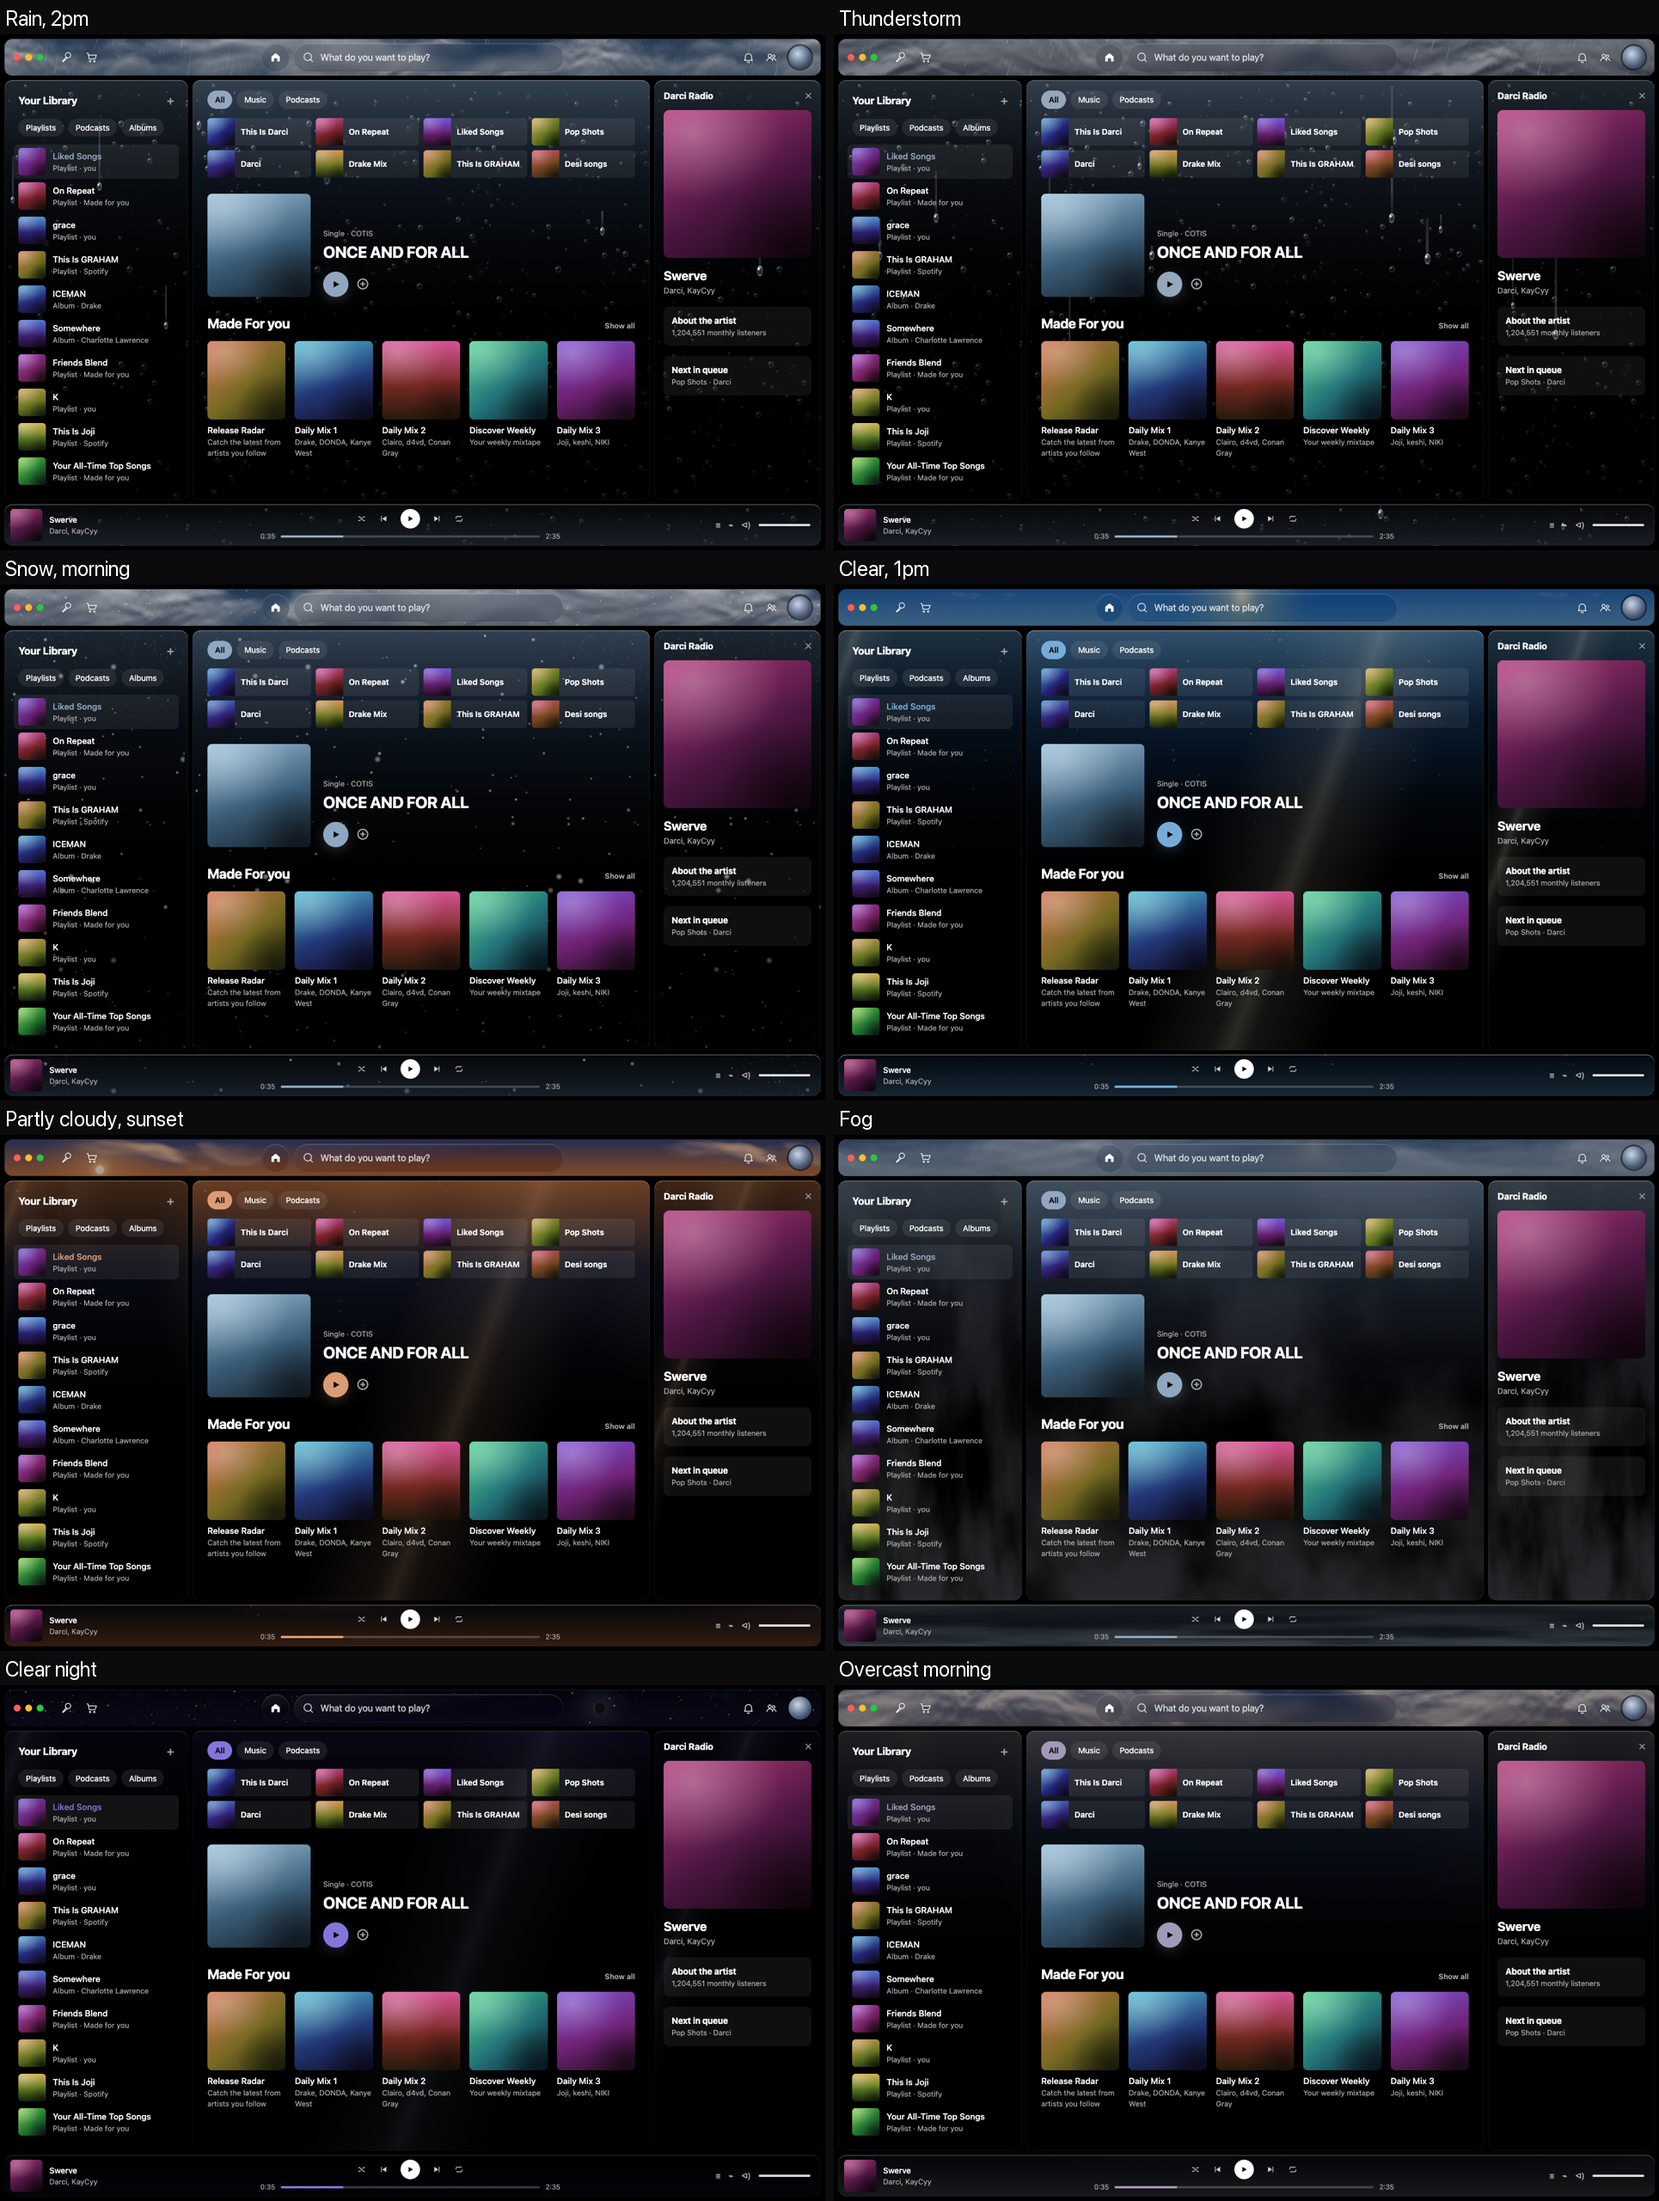
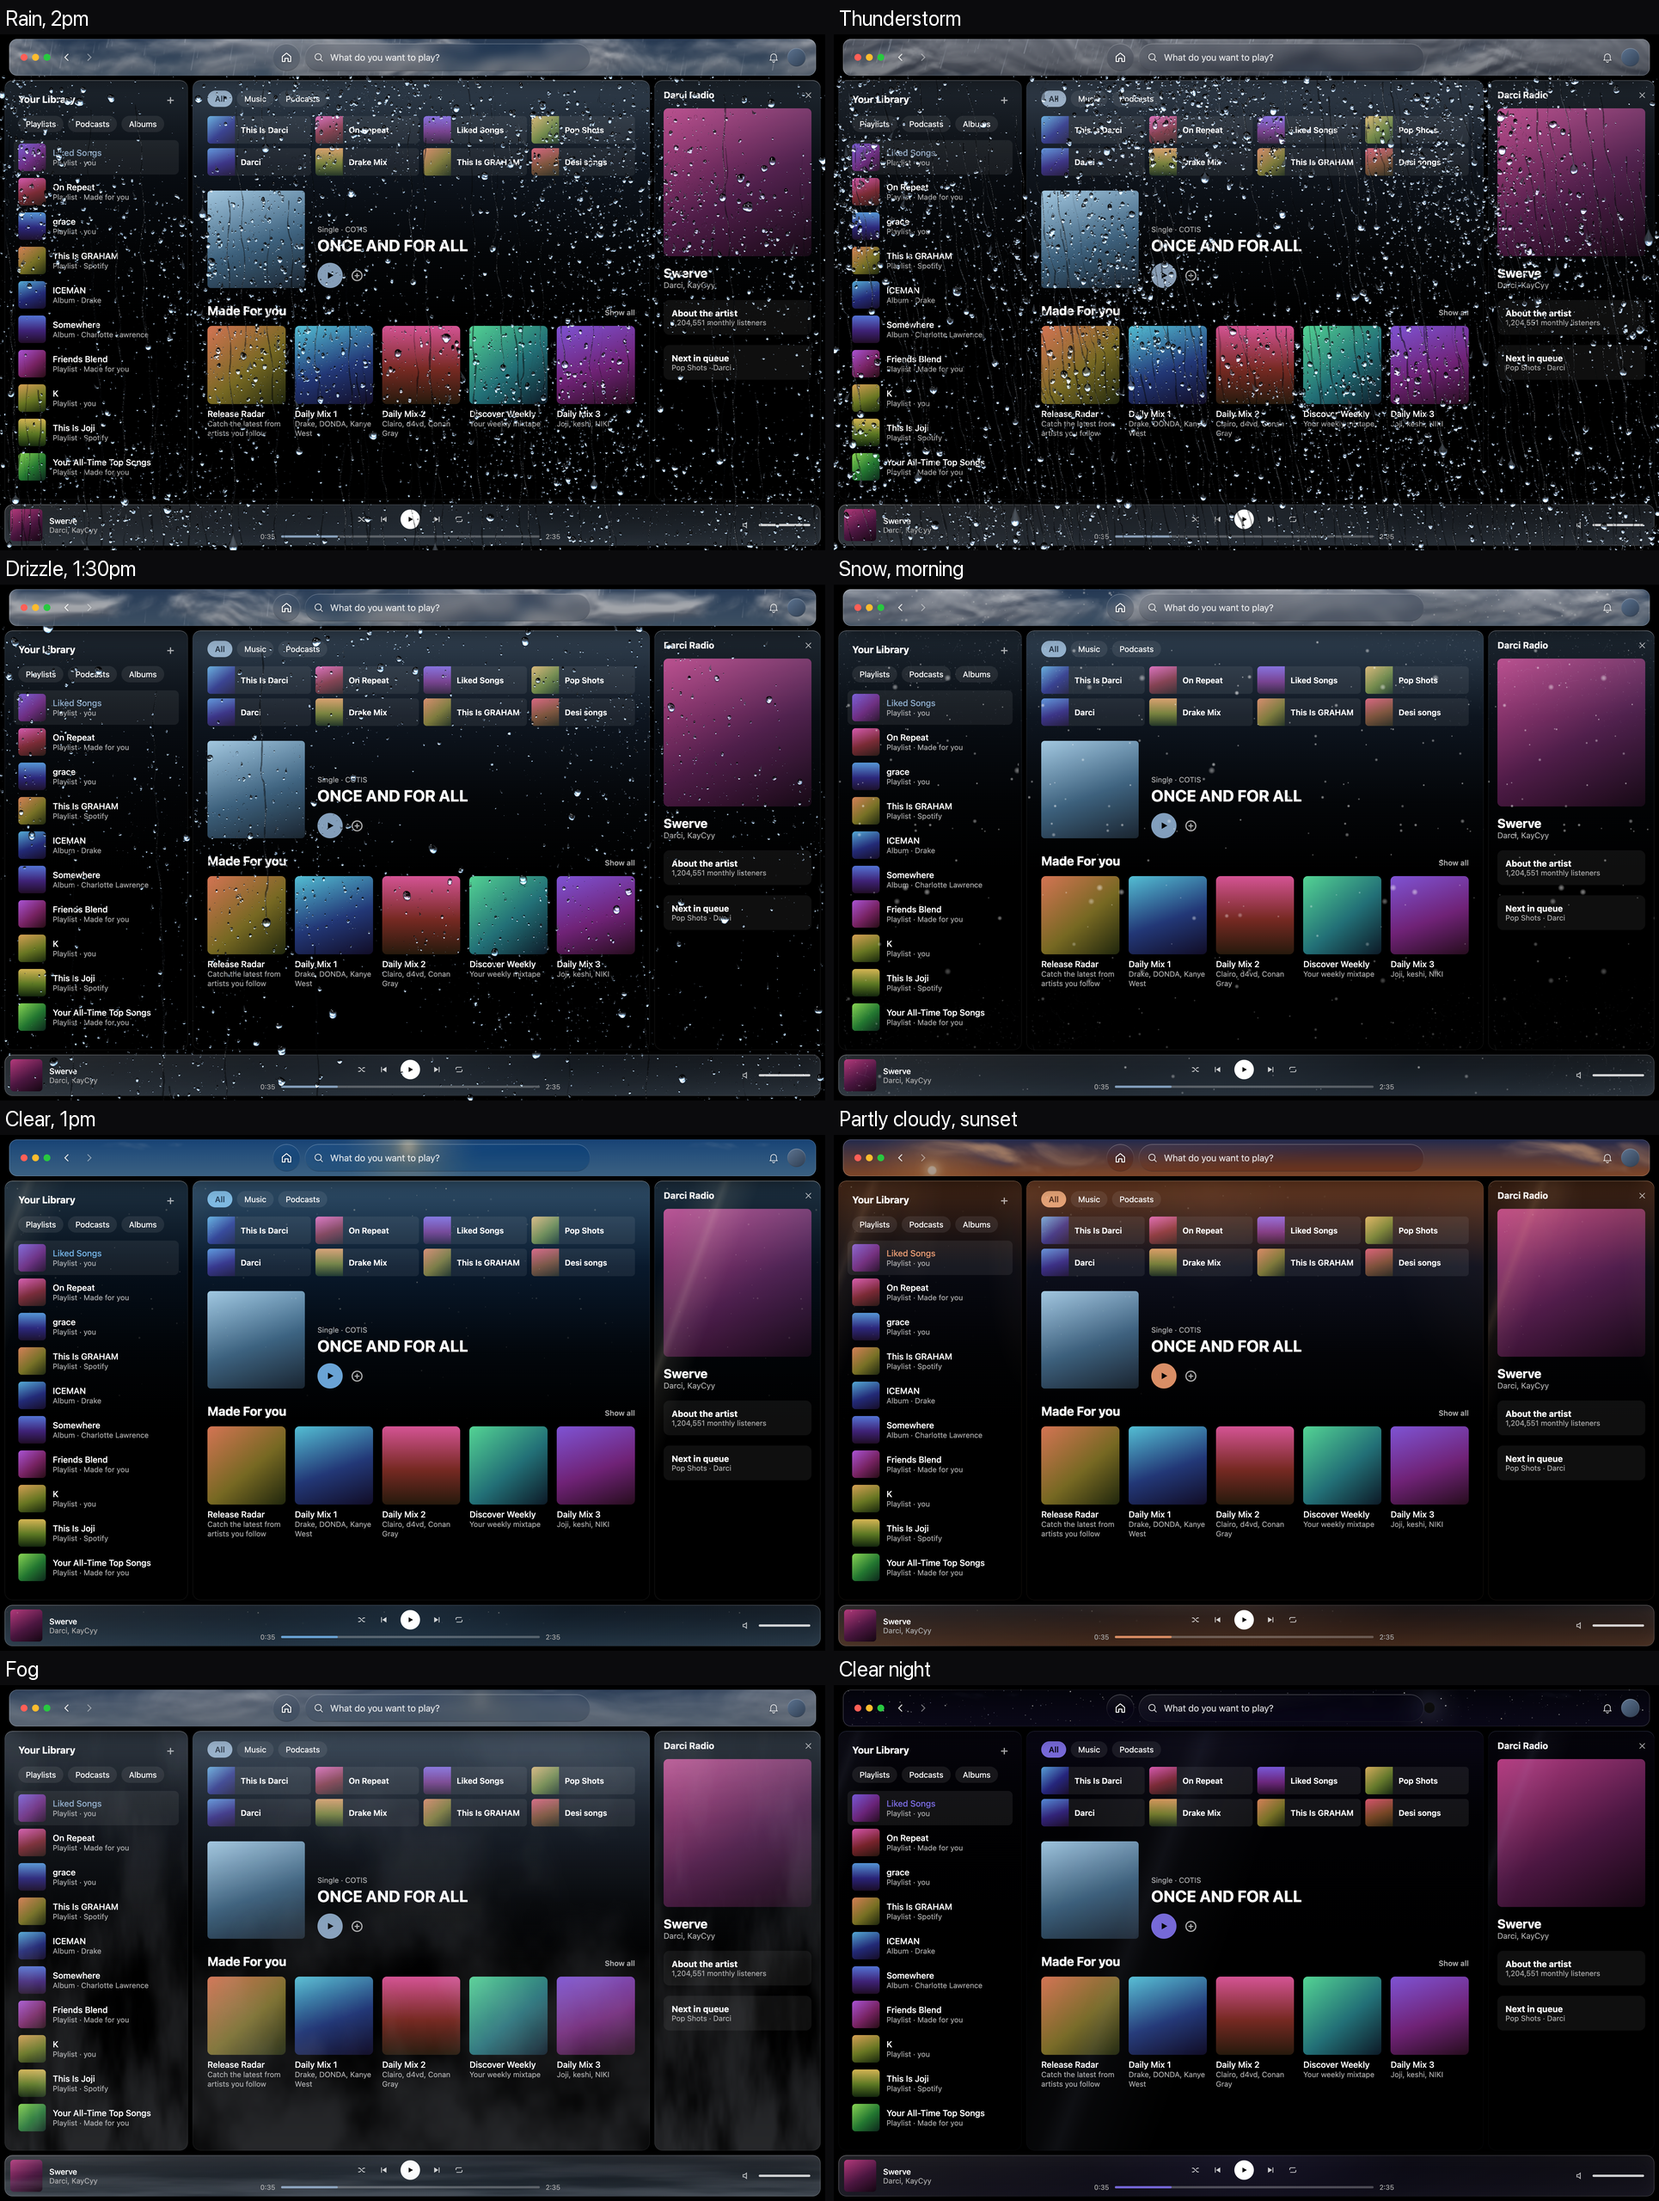
Re-render the screenshots from the real theme, with the new rain
The renders now come from theme/PureBlack in a mock Spotify layout instead
of the early prototypes. Adds a rain close-up and docs/renders/tools/render.sh
so they can be re-rendered after future changes.

diff --git a/docs/renders/tools/mock.html b/docs/renders/tools/mock.html
@@ -1,0 +1,107 @@
+<!doctype html><html class="encore-dark-theme"><head><meta charset="utf-8">
+<style>/*USER_CSS*/</style>
+<style>
+ :root{--panel-gap:8px;--sub:#a7a7a7}
+ body{margin:0;background:#000;color:#fff;font:14px -apple-system,system-ui,sans-serif;overflow:hidden}
+ h2,h3{margin:0}
+ .PbMBx95owTmQYYdfnp3j{position:relative;width:1440px;height:900px;display:grid;grid-template-columns:320px 1fr 290px;grid-template-rows:auto 1fr 80px;column-gap:8px;padding:0 8px 8px;box-sizing:border-box}
+ .EmXZMILXH0bP7U461Va6{grid-column:1/-1;display:flex;align-items:center;justify-content:space-between;position:relative;z-index:5}
+ #Desktop_LeftSidebar_Id,.BPRPH_jrStQIw2m2qfDl,.dMf_PkfPVTEuSmc11MZp{position:relative;background:#000;overflow:hidden;padding:16px}
+ [data-testid="now-playing-bar"]{grid-column:1/-1;margin-top:8px;display:grid;grid-template-columns:1fr 1.2fr 1fr;align-items:center;padding:0 18px 0 10px}
+ .ic{width:36px;height:36px;display:grid;place-items:center;color:rgba(255,255,255,.85)}
+ .Worq2D_XocZxFcvD2Z0U{width:48px;height:48px;border-radius:999px;display:grid;place-items:center}
+ .RYFwfQTMR9mVodv10kWY{width:470px;height:48px;border-radius:999px;display:flex;align-items:center;gap:10px;padding:0 14px;color:rgba(255,255,255,.8);font-size:16px}
+ .qxmESh112XlM9plvFzlP{width:32px;height:32px;border-radius:50%}
+ .art{border-radius:6px;background:var(--a);flex:none}
+ .row{display:flex;align-items:center;gap:8px}
+ .muted{color:var(--sub)}
+ .chip{padding:6px 13px;border-radius:999px;background:rgba(255,255,255,.08);font-size:14px}
+ .chip.on{background:var(--spice-button-active);color:#000;font-weight:600}
+ .item{display:flex;gap:12px;align-items:center;padding:6px 8px;border-radius:8px}
+ .item .art{width:48px;height:48px}.item b{display:block;font-weight:500;font-size:15px}.item span{font-size:13px;color:var(--sub)}
+ .item.active{background:rgba(255,255,255,.07)}.item.active b{color:var(--spice-button-active)}
+ .quick{display:grid;grid-template-columns:repeat(4,1fr);gap:8px;margin:16px 0 26px}
+ .quick>div{display:flex;align-items:center;gap:10px;height:48px;border-radius:6px;background:rgba(255,255,255,.07);overflow:hidden;font-weight:600}
+ .quick .art{width:48px;height:48px;border-radius:0}
+ .hero{display:flex;gap:22px;align-items:flex-end;margin-bottom:26px}.hero>.art{width:170px;height:170px}
+ .playbtn{width:44px;height:44px;border-radius:50%;background:var(--spice-button-active);display:grid;place-items:center;color:#000}
+ .section-head{display:flex;align-items:baseline;justify-content:space-between}.section-head small{color:var(--sub);font-weight:600;font-size:13px}
+ .cards{display:grid;grid-template-columns:repeat(5,1fr);gap:16px;margin-top:14px}.cards .art{aspect-ratio:1;width:100%;border-radius:8px}
+ .cards b{display:block;font-weight:500;margin-top:8px;font-size:15px}.cards span{font-size:13px;color:var(--sub)}
+ .np>.art{width:100%;aspect-ratio:1;margin:14px 0 16px;border-radius:8px}.np>b{display:block;font-size:22px}
+ .np-card{margin-top:18px;padding:14px;border-radius:10px;background:rgba(255,255,255,.06)}.np-card b,.np-card span{display:block}
+ .pb-left{display:flex;align-items:center;gap:12px}.pb-left .art{width:56px;height:56px}
+ .pb-mid{display:grid;gap:6px;justify-items:center}
+ .pb-controls{display:flex;align-items:center;gap:22px;color:rgba(255,255,255,.8)}
+ .pb-play{width:34px;height:34px;border-radius:50%;background:#fff;display:grid;place-items:center;color:#000}
+ .progress{display:flex;align-items:center;gap:10px;width:100%;font-size:12px;color:var(--sub)}
+ .progress i{flex:1;height:4px;border-radius:2px;background:rgba(255,255,255,.25);position:relative}
+ .progress i::before{content:"";position:absolute;inset:0 78% 0 0;border-radius:2px;background:var(--spice-button-active)}
+ .pb-right{display:flex;justify-content:flex-end;align-items:center;gap:14px;color:rgba(255,255,255,.75)}
+ .vol{width:90px;height:4px;border-radius:2px;background:rgba(255,255,255,.8)}
+</style></head><body>
+<div class="PbMBx95owTmQYYdfnp3j">
+<div class="EmXZMILXH0bP7U461Va6">
+ <div class="row" style="gap:4px"><span style="width:70px;display:flex;gap:8px;padding-left:12px;box-sizing:border-box"><i style="width:12px;height:12px;border-radius:50%;background:#ff5f57"></i><i style="width:12px;height:12px;border-radius:50%;background:#febc2e"></i><i style="width:12px;height:12px;border-radius:50%;background:#28c840"></i></span>
+  <div class="ic"><svg width="22" viewBox="0 0 24 24" fill="none" stroke="currentColor" stroke-width="1.8" stroke-linecap="round"><path d="m15 18-6-6 6-6"/></svg></div>
+  <div class="ic" style="opacity:.5"><svg width="22" viewBox="0 0 24 24" fill="none" stroke="currentColor" stroke-width="1.8" stroke-linecap="round"><path d="m9 18 6-6-6-6"/></svg></div></div>
+ <div class="row"><div class="Worq2D_XocZxFcvD2Z0U"><svg width="22" height="22" viewBox="0 0 24 24" fill="none" stroke="#fff" stroke-width="1.8" stroke-linejoin="round"><path d="M4 10.5 12 4l8 6.5V20h-5v-6h-6v6H4z"/></svg></div>
+ <div class="xLC8OrWuExkkvVyzV00Y"><div class="RYFwfQTMR9mVodv10kWY"><svg width="20" height="20" viewBox="0 0 24 24" fill="none" stroke="currentColor" stroke-width="1.8" stroke-linecap="round"><circle cx="11" cy="11" r="6.5"/><path d="m16 16 4 4"/></svg>What do you want to play?</div></div></div>
+ <div class="row" style="gap:6px"><div class="ic"><svg width="20" viewBox="0 0 24 24" fill="none" stroke="currentColor" stroke-width="1.6" stroke-linecap="round"><path d="M6 16V11a6 6 0 0 1 12 0v5l1.5 2h-15zM10 20.5a2 2 0 0 0 4 0"/></svg></div><div class="qxmESh112XlM9plvFzlP" style="background:linear-gradient(140deg,#5d7491,#2f3e52)"></div><span style="width:4px"></span></div>
+</div>
+<nav id="Desktop_LeftSidebar_Id">
+ <div class="row" style="justify-content:space-between;padding:4px 8px 0"><h2 style="font-size:17px">Your Library</h2><span class="muted" style="font-size:22px">+</span></div>
+ <div class="row" style="margin:16px 8px 14px"><span class="chip">Playlists</span><span class="chip">Podcasts</span><span class="chip">Albums</span></div>
+ <div id="lib"></div></nav>
+<main class="BPRPH_jrStQIw2m2qfDl" style="padding:18px 26px">
+ <div class="row"><span class="chip on">All</span><span class="chip">Music</span><span class="chip">Podcasts</span></div>
+ <div class="quick" id="quick"></div>
+ <div class="hero"><div class="art" style="--a:linear-gradient(160deg,#9ec3dc,#3a5d78 55%,#18222c)"></div>
+  <div><div class="muted" style="font-size:13px">Single · COTIS</div><h3 style="font-size:28px;margin:4px 0 14px">ONCE AND FOR ALL</h3>
+  <div class="row" style="gap:14px"><div class="playbtn"><svg width="18" height="18" viewBox="0 0 24 24" fill="currentColor"><path d="M7 4.5v15l13-7.5z"/></svg></div><span class="muted" style="font-size:24px">⊕</span></div></div></div>
+ <div class="section-head"><h3 style="font-size:22px">Made For you</h3><small>Show all</small></div>
+ <div class="cards" id="cards"></div></main>
+<aside class="dMf_PkfPVTEuSmc11MZp np">
+ <div class="row" style="justify-content:space-between"><h2 style="font-size:16px">Darci Radio</h2><span class="muted">✕</span></div>
+ <div class="art" style="--a:linear-gradient(150deg,#b43a7c,#4b1640 55%,#140611)"></div>
+ <b>Swerve</b><span class="muted">Darci, KayCyy</span>
+ <div class="np-card"><b style="font-size:15px">About the artist</b><span class="muted" style="font-size:13px">1,204,551 monthly listeners</span></div>
+ <div class="np-card"><b style="font-size:15px">Next in queue</b><span class="muted" style="font-size:13px">Pop Shots · Darci</span></div></aside>
+<footer data-testid="now-playing-bar">
+ <div class="pb-left"><div class="art" style="--a:linear-gradient(150deg,#b43a7c,#4b1640 55%,#140611)"></div><div><b style="font-weight:500">Swerve</b><div class="muted" style="font-size:13px">Darci, KayCyy</div></div></div>
+ <div class="pb-mid"><div class="pb-controls">
+  <svg width="16" height="16" viewBox="0 0 24 24" fill="none" stroke="currentColor" stroke-width="2"><path d="M3 7h4l10 10h4M3 17h4l3-3M14 10l3-3h4"/></svg>
+  <svg width="16" height="16" viewBox="0 0 24 24" fill="currentColor"><path d="M6 5h2v14H6zM20 5v14L9 12z"/></svg>
+  <div class="pb-play"><svg width="14" height="14" viewBox="0 0 24 24" fill="currentColor"><path d="M7 4.5v15l13-7.5z"/></svg></div>
+  <svg width="16" height="16" viewBox="0 0 24 24" fill="currentColor"><path d="M16 5h2v14h-2zM4 5v14l11-7z"/></svg>
+  <svg width="16" height="16" viewBox="0 0 24 24" fill="none" stroke="currentColor" stroke-width="2"><path d="M4 12V9a3 3 0 0 1 3-3h12M20 12v3a3 3 0 0 1-3 3H5"/></svg></div>
+  <div class="progress"><span>0:35</span><i></i><span>2:35</span></div></div>
+ <div class="pb-right"><svg width="16" height="16" viewBox="0 0 24 24" fill="none" stroke="currentColor" stroke-width="2"><path d="M4 9v6h4l5 4V5L8 9z"/></svg><div class="vol"></div></div>
+</footer>
+</div>
+<script>
+ const art=(h,k=0)=>`linear-gradient(${140+k*20}deg,hsl(${h} 60% 58%),hsl(${h+35} 55% 30%) 55%,hsl(${h+60} 50% 10%))`;
+ lib.innerHTML=[["Liked Songs","Playlist · you",255],["On Repeat","Playlist · Made for you",320],["grace","Playlist · you",210],["This Is GRAHAM","Playlist · Spotify",20],["ICEMAN","Album · Drake",200],["Somewhere","Album · Charlotte Lawrence",225],["Friends Blend","Playlist · Made for you",280],["K","Playlist · you",35],["This Is Joji","Playlist · Spotify",45],["Your All-Time Top Songs","Playlist · Made for you",95]]
+  .map(([t,s,h],i)=>`<div class="item${i===0?" active":""}"><div class="art" style="--a:${art(h,i%3)}"></div><div><b>${t}</b><span>${s}</span></div></div>`).join("");
+ quick.innerHTML=[["This Is Darci",205],["On Repeat",320],["Liked Songs",255],["Pop Shots",40],["Darci",215],["Drake Mix",30],["This Is GRAHAM",20],["Desi songs",350]]
+  .map(([t,h],i)=>`<div><div class="art" style="--a:${art(h,i%3)}"></div>${t}</div>`).join("");
+ cards.innerHTML=[["Release Radar","Catch the latest from artists you follow",15],["Daily Mix 1","Drake, DONDA, Kanye West",190],["Daily Mix 2","Clairo, d4vd, Conan Gray",330],["Discover Weekly","Your weekly mixtape",150],["Daily Mix 3","Joji, keshi, NIKI",260]]
+  .map(([t,s,h],i)=>`<div><div class="art" style="--a:${art(h,i%3)}"></div><b>${t}</b><span>${s}</span></div>`).join("");
+ const q=new URLSearchParams(location.search);
+ const W=q.get("w")||"clear";
+ try{localStorage.setItem("pureblack:sky-weather",JSON.stringify({scene:W,at:Date.now()}))}catch{}
+ window.fetch=()=>Promise.reject(new Error("offline"));
+</script>
+<script>/*THEME_JS*/</script>
+<script>
+ if(q.get("h"))PureBlackSky.setHour(+q.get("h"));
+ PureBlackSky.setWeather(W);
+ (()=>{const w=window.PureBlackWater,t=+(q.get("t")||0);
+  let info={w:W};
+  if(w&&q.has("bar")){w.stop();w.canvas.remove();}
+  if(w&&t){w.stop();w.advance(t);w.render();
+   const c=document.createElement("canvas");c.width=w.canvas.width;c.height=w.canvas.height;c.style.cssText=w.canvas.style.cssText;c.id=w.canvas.id;
+   c.getContext("2d").drawImage(w.canvas,0,0);w.canvas.replaceWith(c);info={...info,...w.stats};}
+  document.documentElement.setAttribute("data-t",JSON.stringify(info));})();
+</script>
+</body></html>

diff --git a/README.md b/README.md
@@ -18,6 +18,8 @@ A Spicetify theme for Spotify on macOS. Pure black with Apple-style liquid glass
   | Clear or partly cloudy | A sun glint sweeps across; dust floats in the light (a moon glint at night) |
   | Fog | Mist drifts across the lower half |
 
+  ![Rain on the glass](docs/renders/rain.png)
+
 - **One source of color.** Buttons, chips, the progress bar and hovers follow the sky's color: blue on a clear day, steel grey in rain, rose at dusk, indigo at night.
 - **Details.** One radius scale everywhere, a taller top bar with the window buttons kept centred, a playbar glow that pulses while music plays, and Spotify's lyrics button opening Lyrics Plus.
 
@@ -86,4 +88,4 @@ Many selectors target Spotify's hashed class names (for example `.EmXZMILXH0bP7U
 | `auto-reapply/` | Reapply script and LaunchAgent template |
 | `AGENTS.md` | Step-by-step install guide for coding agents (`CLAUDE.md` points to it) |
 | `prototypes/` | Standalone HTML prototypes used to pick the design (open in a browser) |
-| `docs/renders/` | Renders of the theme in a mock Spotify layout |
+| `docs/renders/` | Renders of the theme in a mock Spotify layout (`tools/render.sh` re-renders them from the theme files) |
